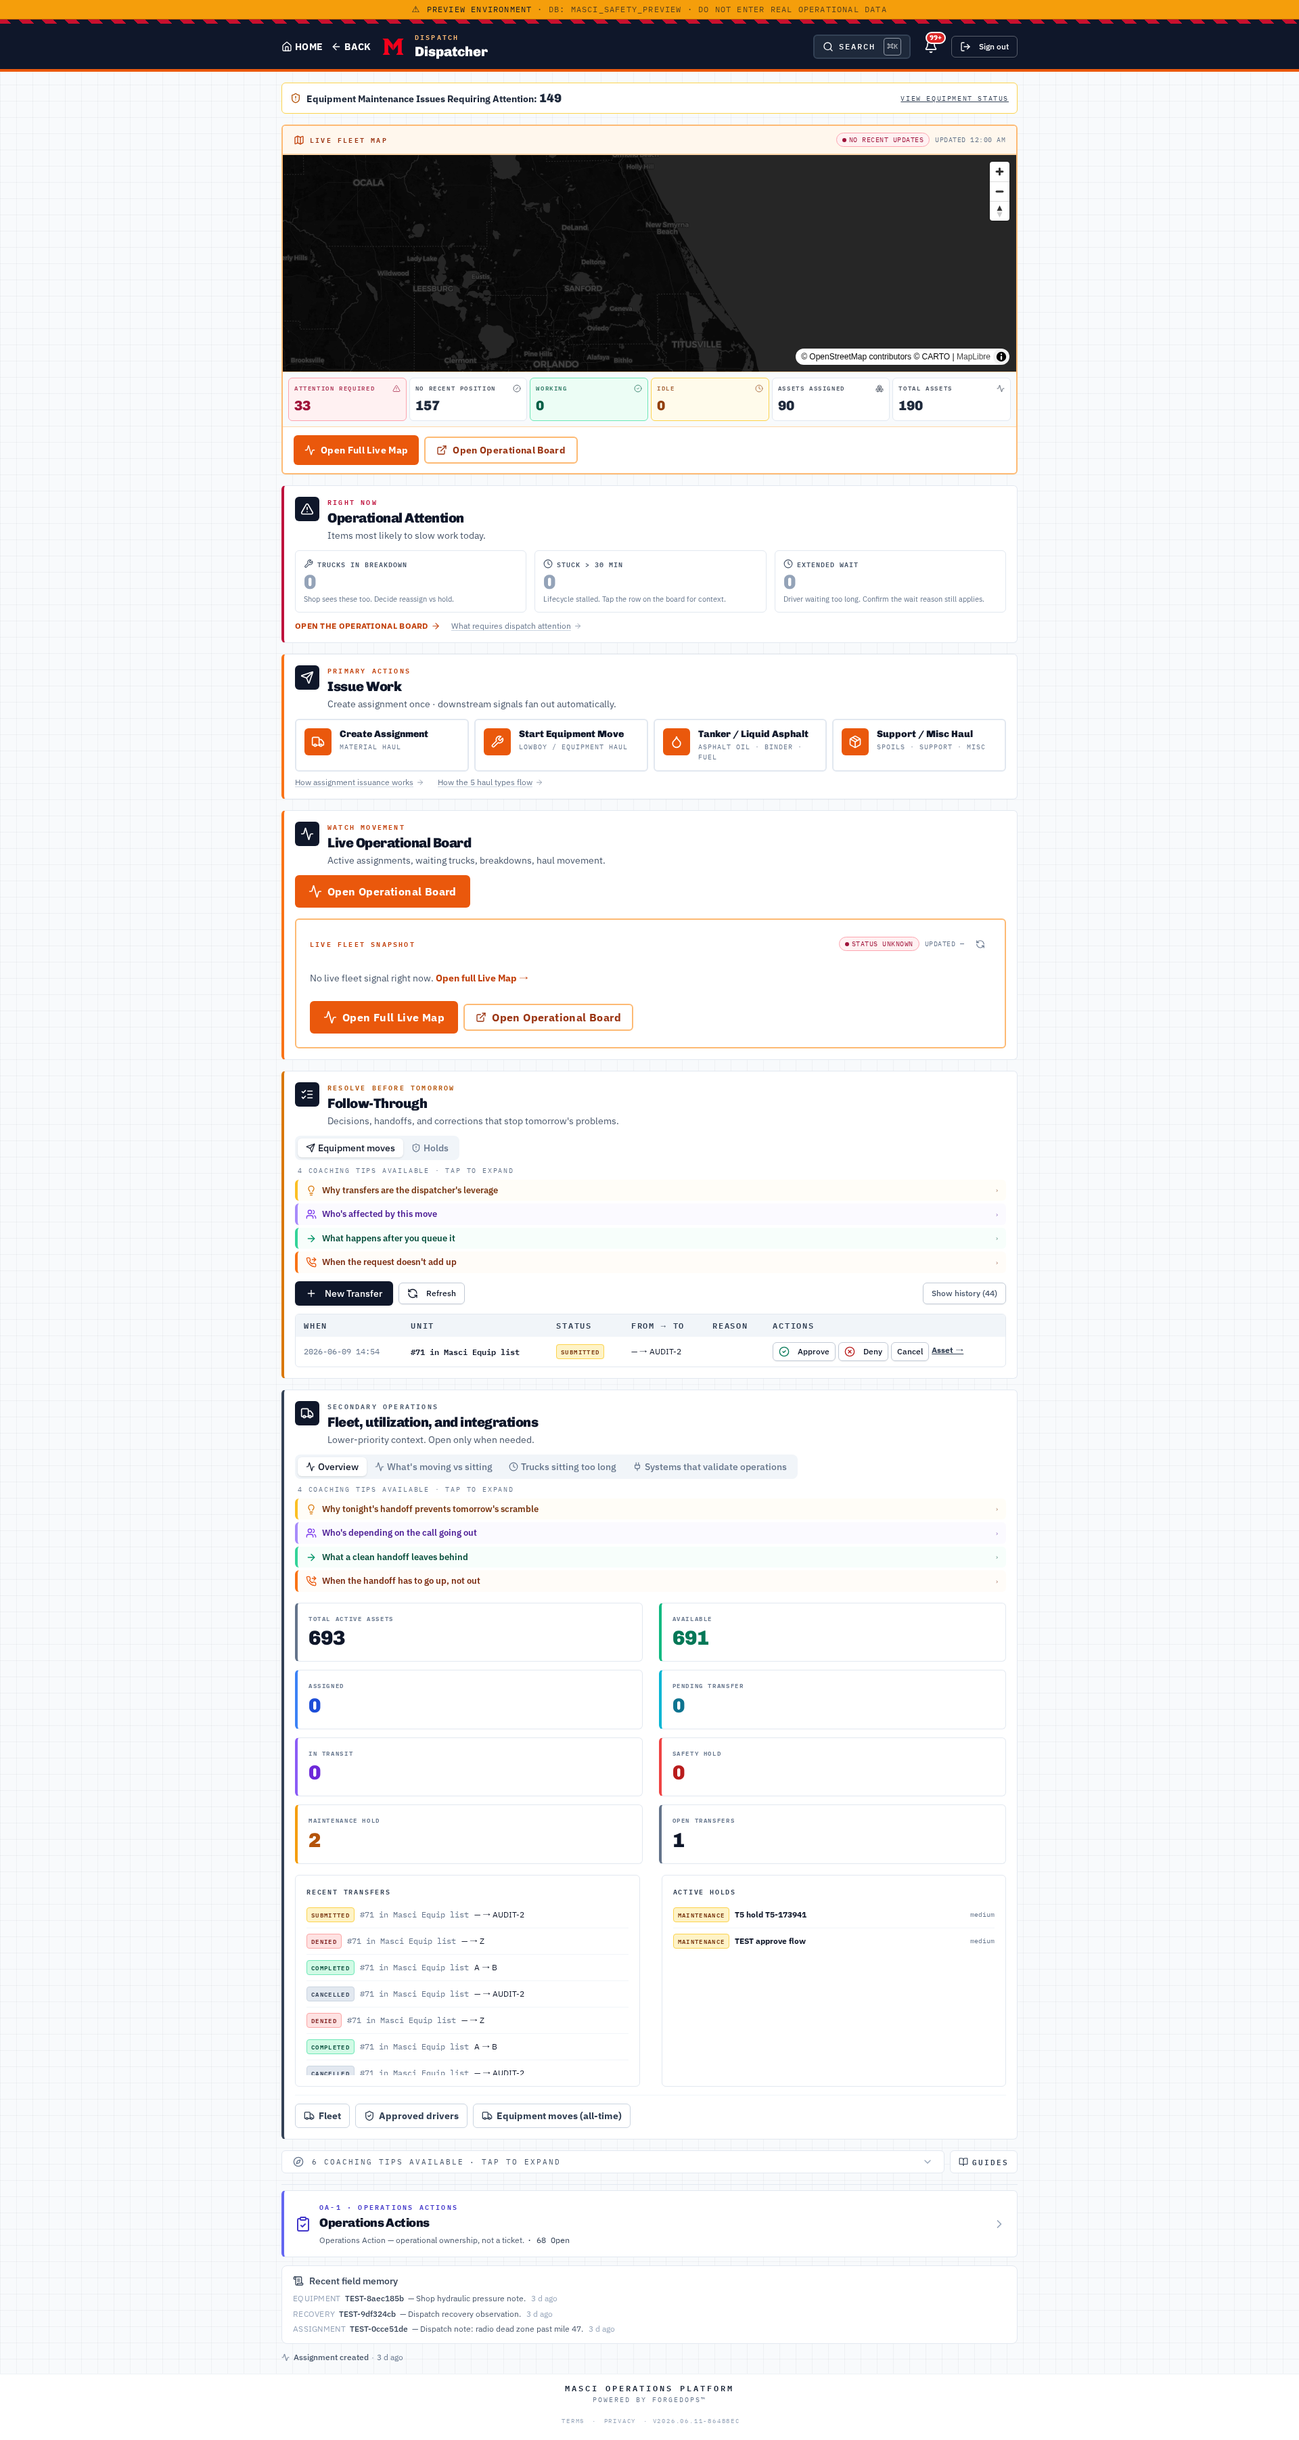
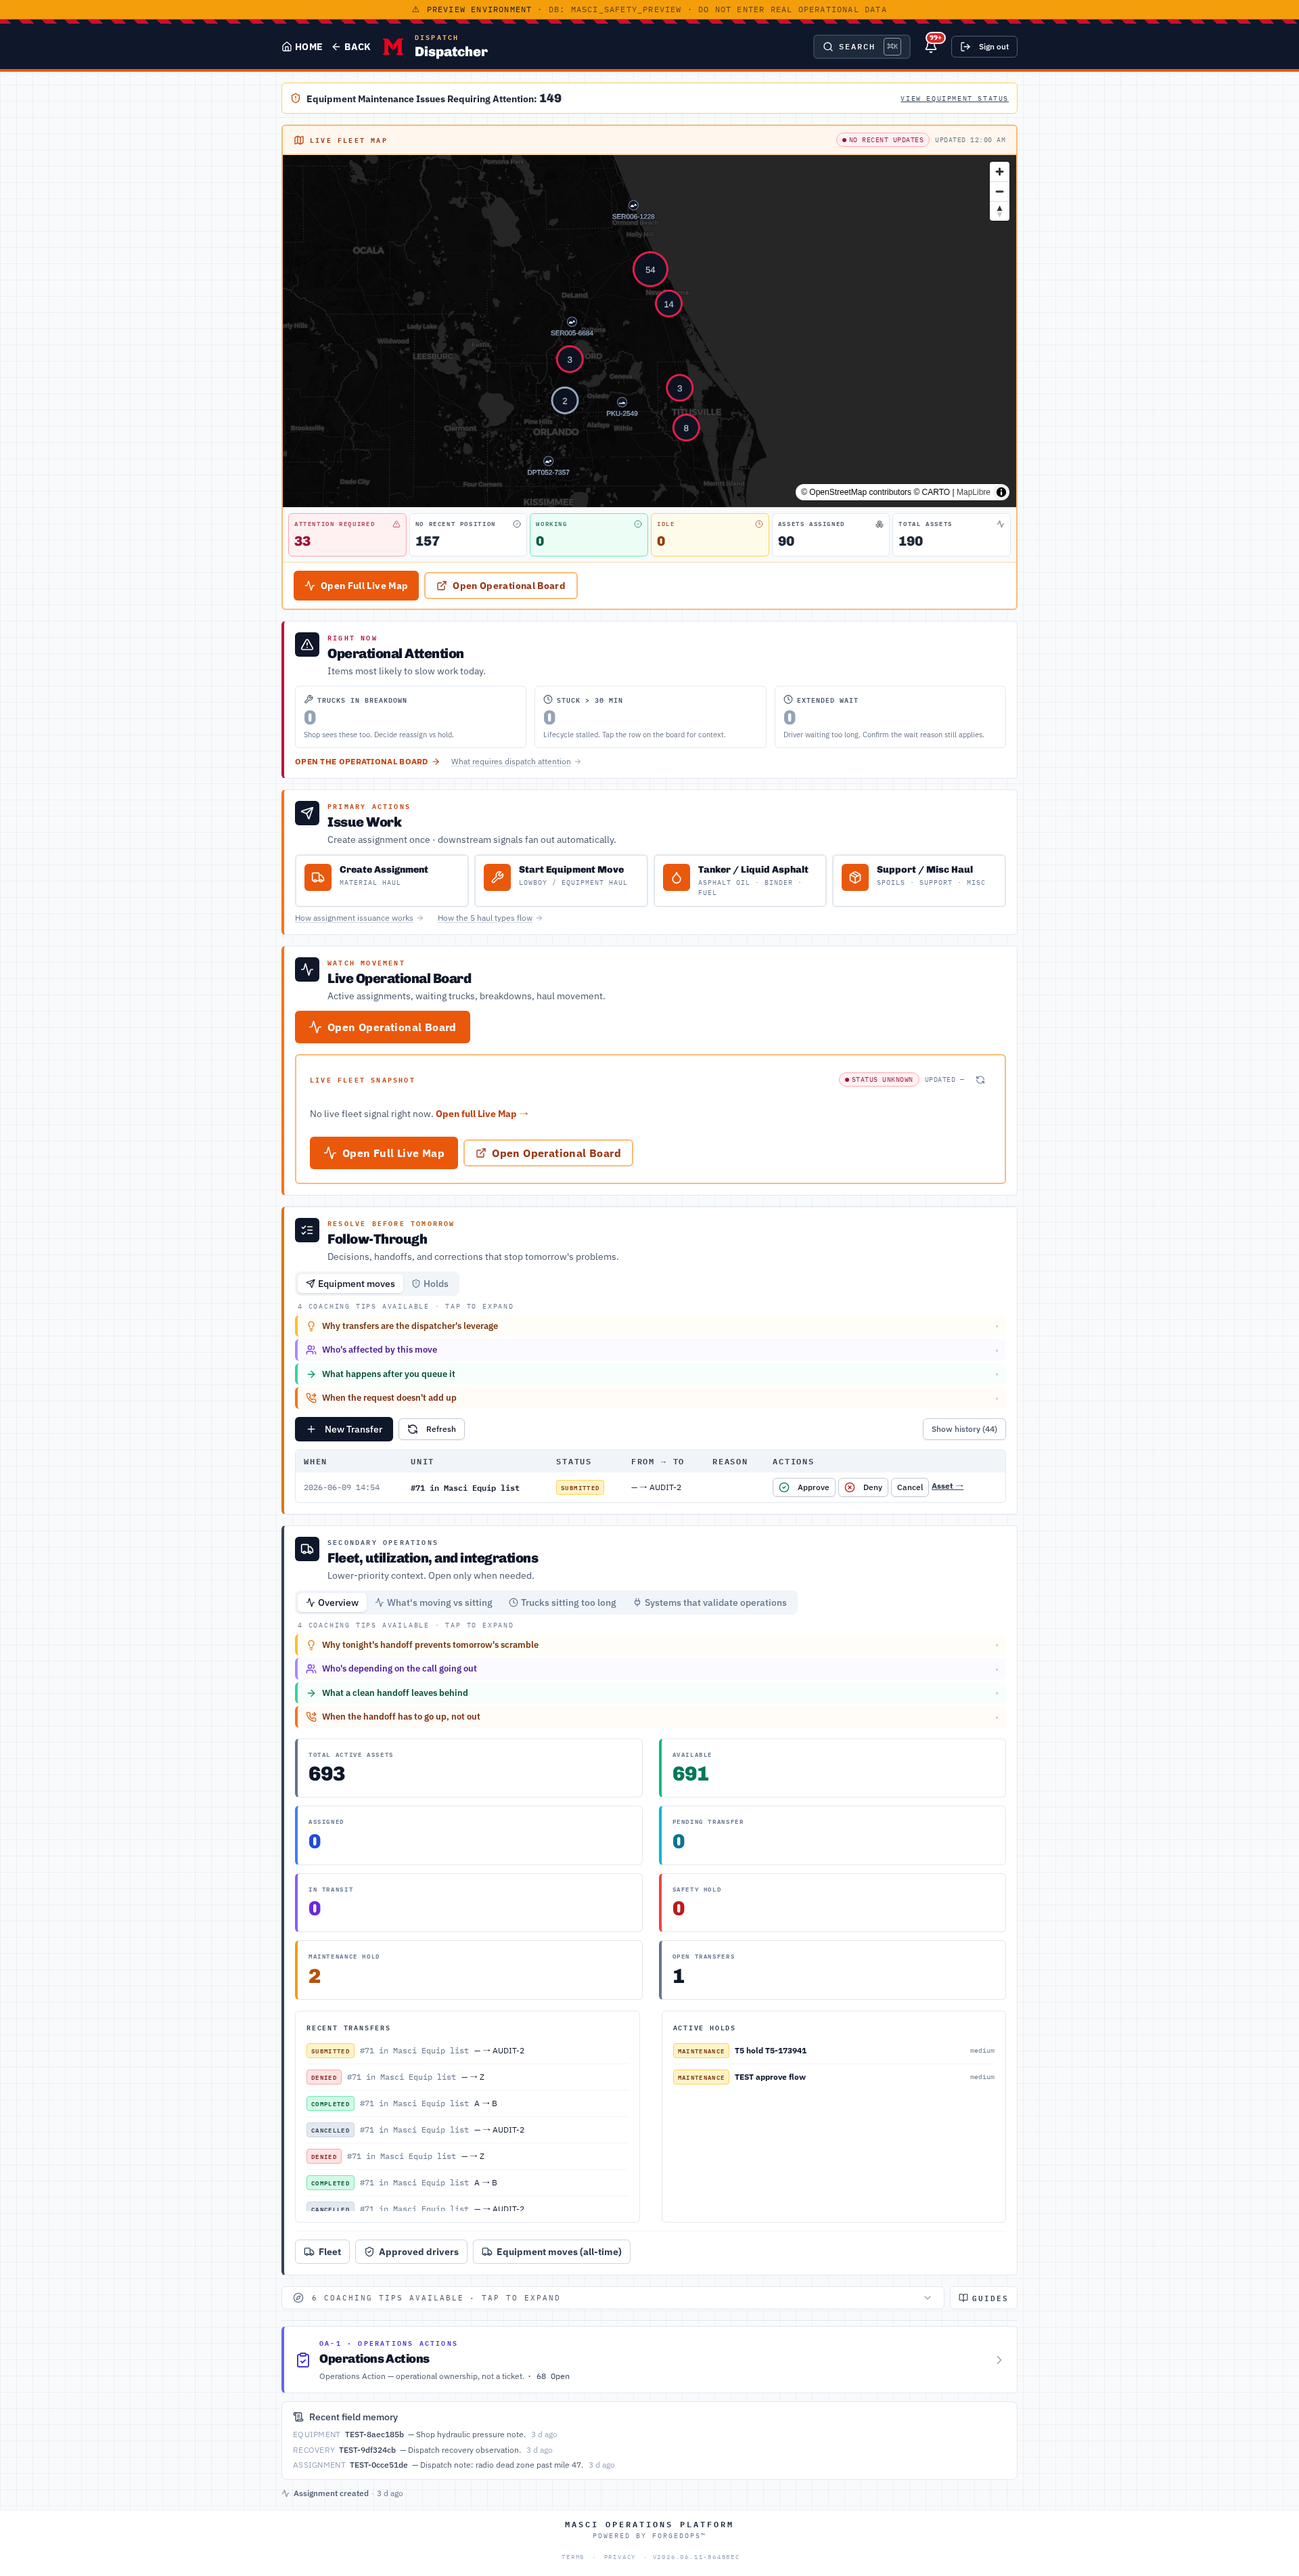
auto-commit for 3abc87a1-d4f0-4b53-b4f7-dd8d3f7cb74d

diff --git a/frontend/src/components/operations-map/MapCanvas.jsx b/frontend/src/components/operations-map/MapCanvas.jsx
@@ -239,7 +239,13 @@ export default function MapCanvas({ snapshot, filters, onSelect }) {
     if (!mapRef.current || !ready || !snapshot) return;
     const map = mapRef.current;
     const tSet = new Set(filters?.types || []);
-    const sSet = new Set(filters?.status || ["green","amber","red","gray"]);
+    // Track 13.4A · Empty status array must mean "all bands" (matches
+    // the `types` filter semantics on the line above). Without this
+    // the snapshot's assets all get filtered out and zero markers
+    // render — which is the bug that made `DispatchMapHero` look
+    // empty over the basemap.
+    const allBands = ["green", "amber", "red", "gray"];
+    const sSet = new Set(filters?.status?.length ? filters.status : allBands);
     const driver = (filters?.driver || "").toLowerCase();
 
     const features = (snapshot.assets || [])

diff --git a/frontend/src/components/DispatchMapHero.jsx b/frontend/src/components/DispatchMapHero.jsx
@@ -95,10 +95,14 @@ export default function DispatchMapHero({ className = "" }) {
         </div>
       </div>
 
-      {/* Real map canvas */}
+      {/* Real map canvas — Track 13.4A §Item 1 dominant operational
+       * surface on Dispatch home. Responsive height: tall on desktop
+       * (520px), medium on tablet (420px), shorter on phone (300px)
+       * so the map is the dispatcher's primary "where is my fleet?"
+       * answer without crushing the counts/CTA below it.
+       */}
       <div
-        className="relative w-full"
-        style={{ height: "320px" }}
+        className="relative w-full h-[300px] sm:h-[420px] lg:h-[520px]"
         data-testid="dispatch-map-canvas-wrap"
       >
         {loading && !data ? (
